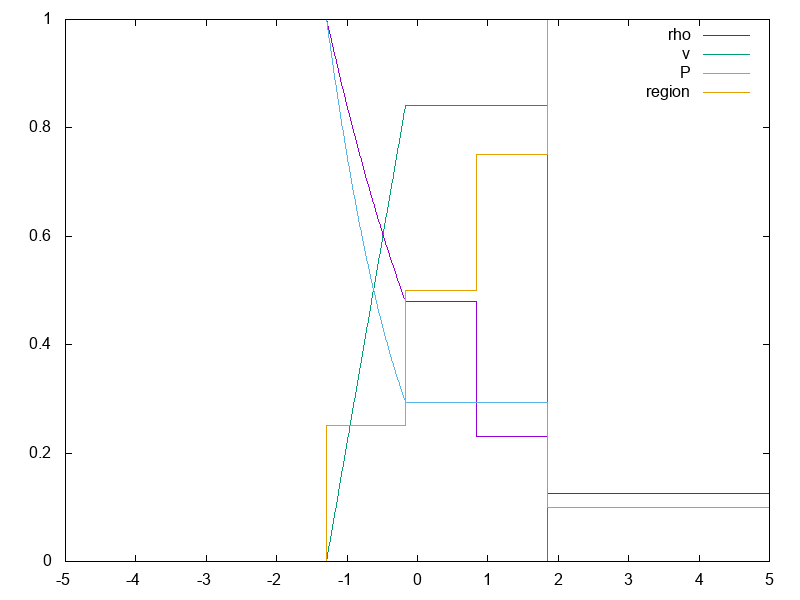
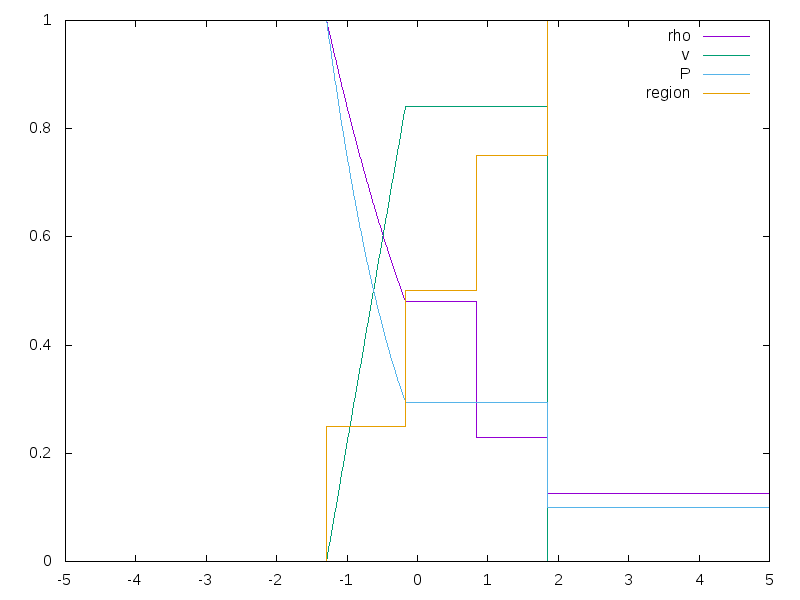
updated equations

diff --git a/Sod shock tube solution.html b/Sod shock tube solution.html
@@ -20,22 +20,15 @@ table tr, table td, table th {
 
 coordinates: $x, t$<br>
 variables: $\rho, v, P$<br>
-$m^2 = \frac{\gamma - 1}{\gamma + 1}$<br>
-$K = \frac{P_L}{\rho_L^\gamma}$<br>
+$\mu^2 = \frac{\gamma - 1}{\gamma + 1}$<br>
+$C_{s,L} = \sqrt{\frac{\gamma P_L}{\rho_L}}$<br>
+$C_{s,R} = \sqrt{\frac{\gamma P_R}{\rho_R}}$<br>
 <br>
 
 waves, from left to right:<br>
-<br>
-
-$x_{wave} = x_w = -C_{s,1} t$<br>
-$C_{s,1} = \sqrt{\frac{\gamma P_L}{\rho_L}}$<br>
-<br>
-
-
-$x_{contact} = x_c = v_c t$<br>
+$v_{wave} = -C_{s,L}$<br>
+$v_{tail} = -C_{s,L} + \frac{1}{1 - \mu^2} v_4$<br>
 $v_{contact} = v_c = v_4$<br>
-<br>
-$x_{shock} = x_s = v_s t$<br>
 $v_{shock} = v_s = v_4 \frac{\rho_4}{\rho_4 - \rho_R}$<br>
 <br>
 
@@ -47,24 +40,26 @@ solutions:<br>
 	<tr>
 		<td>$\rho$</td>
 		<td>$\rho_1 = \rho_L$</td>
-		<td>$\rho_2 = \left( \frac{\rho_L^\gamma}{\gamma P_L} ( v_2 - \frac{x}{t} )^2 \right)^{1/(\gamma-1)}$</td>
-		<td>$\rho_3 = \rho_L \left( \frac{P_3}{P_L} \right)^{1/\gamma}$</td>
-		<td>$\rho_4 = \rho_R \left( \frac{P_4 + m^2 P_R}{P_R + m^2 P_4} \right)$</td>
+		<!-- Dullemon: - -><td>$\rho_2 = \left( \frac{\rho_L^\gamma}{\gamma P_L} ( v_2 - \frac{x}{t} )^2 \right)^{1/(\gamma-1)}$</td -->
+		<!-- sod.f: --><td>$\rho_2 = \rho_L ( -\frac{x}{t} \frac{\mu^2}{C_{s,L}} + (1 - \mu^2))^{\frac{2}{\gamma-1}}$<br>
+		<td>$\rho_3 = \rho_L \left(\frac{P_3}{P_L} \right)^{1/\gamma}$</td>
+		<td>$\rho_4 = \rho_R \left(\frac{P_4 + \mu^2 P_R}{P_R + \mu^2 P_4} \right)$</td>
 		<td>$\rho_5 = \rho_R$</td>
 	</tr>
 	<tr>
 		<td>$v$</td>
 		<td>$v_1 = v_L$</td>
-		<!-- <td>$v_2 = \sqrt{\frac{(1 - m^4) {P_L}^{1/\gamma}}{m^4 \rho_L}} \left( {P_L}^{\frac{\gamma-1}{2\gamma}} - {P_2}^{\frac{\gamma-1}{2\gamma}} \right)$</td> -->
-		<td>$v_2 = (1 - m^2)(\frac{x}{t} + C_{s,1})$<br>
-		<!-- from Dullermon: - -><td colspan=2>$v_3 = v_4 = (P_4 - P_R) \sqrt{\frac{1 - m^2}{\rho_R (P_4 + m^2 P_R)}}$</td> -->
-		<!-- from Wikipedia: --><td colspan=2>$v_3 = v_4 = v_R + \frac{(P_4 - P_R)}{ \sqrt{ \frac{\rho_R}{2} (( \gamma + 1) P_3 + (\gamma - 1) P_R) }}$</td>
+		<!-- <td>$v_2 = \sqrt{\frac{(1 - \mu^4) {P_L}^{1/\gamma}}{\mu^4 \rho_L}} \left( {P_L}^{\frac{\gamma-1}{2\gamma}} - {P_2}^{\frac{\gamma-1}{2\gamma}} \right)$</td> -->
+		<td>$v_2 = (1 - \mu^2)(\frac{x}{t} + C_{s,L})$<br>
+		<!-- from Dullemon: - -><td colspan=2>$v_3 = v_4 = (P_4 - P_R) \sqrt{\frac{1 - \mu^2}{\rho_R (P_4 + \mu^2 P_R)}}$</td -->
+		<!-- from Wikipedia: - -><td colspan=2>$v_3 = v_4 = v_R + \frac{(P_4 - P_R)}{ \sqrt{ \frac{\rho_R}{2} (( \gamma + 1) P_3 + (\gamma - 1) P_R) }}$</td -->
+		<!-- from sod.f: --><td colspan=2>$v_3 = v_4 = v_R + \frac{2 C_{s,L}}{\gamma-1} \left(1 - (\frac{P_3}{P_L})^{\frac{\gamma-1}{2\gamma}} \right)$</td>
 		<td>$v_5 = v_R$</td>
 	</tr>
 	<tr>
 		<td>$P$</td>
 		<td>$P_1 = P_L$</td>
-		<td>$P_2 = K \rho_2^\gamma$</td>
+		<td>$P_2 = P_L ( -\frac{x}{t} \frac{\mu^2}{C_{s,L}} + (1 - \mu^2))^{\frac{2 \gamma}{\gamma-1}}$<br>
 		<td colspan=2>$P_3 = P_4 = ...$</td>
 		<td>$P_5 = P_R$</td>
 	</tr>
@@ -72,8 +67,18 @@ solutions:<br>
 <br>
 
 The solution to $P_3$ is the root of the equality:<br>
-$u_2 = \left( P_L^{(\gamma-1)/2} - P_3^{(\gamma-1)/2} \right) \sqrt{ \frac{ (1 - m^4) P_L^{1/\gamma} }{ (m^4 \rho_L} }$<br>
-$u_4 = (P_3 - P_5) \sqrt{\frac{1 - m^2}{\rho_R (P_3 + m^2 P_R) }}$<br>
+<!-- sod.f -->
+$C_{s,R} \left( \frac{P_3}{P_R}-1 \right)
+\sqrt{
+	\frac{1 - \mu^2}{\gamma(\mu^2 + \frac{P_3}{P_R})}
+}
+= \frac{2 C_{s,L}}{\gamma-1}
+	\left(1 - (\frac{P_3}{P_L})^{\frac{\gamma-1}{2\gamma}} \right) 
+$<br>
+<!-- Dullemon
+$u_2 = \left( P_L^{(\gamma-1)/2} - P_3^{(\gamma-1)/2} \right) \sqrt{ \frac{ (1 - \mu^4) P_L^{1/\gamma} }{ (\mu^4 \rho_L} }$<br>
+$u_4 = (P_3 - P_5) \sqrt{\frac{1 - \mu^2}{\rho_R (P_3 + \mu^2 P_R) }}$<br>
+-->
 <br>
 
 	</body>
